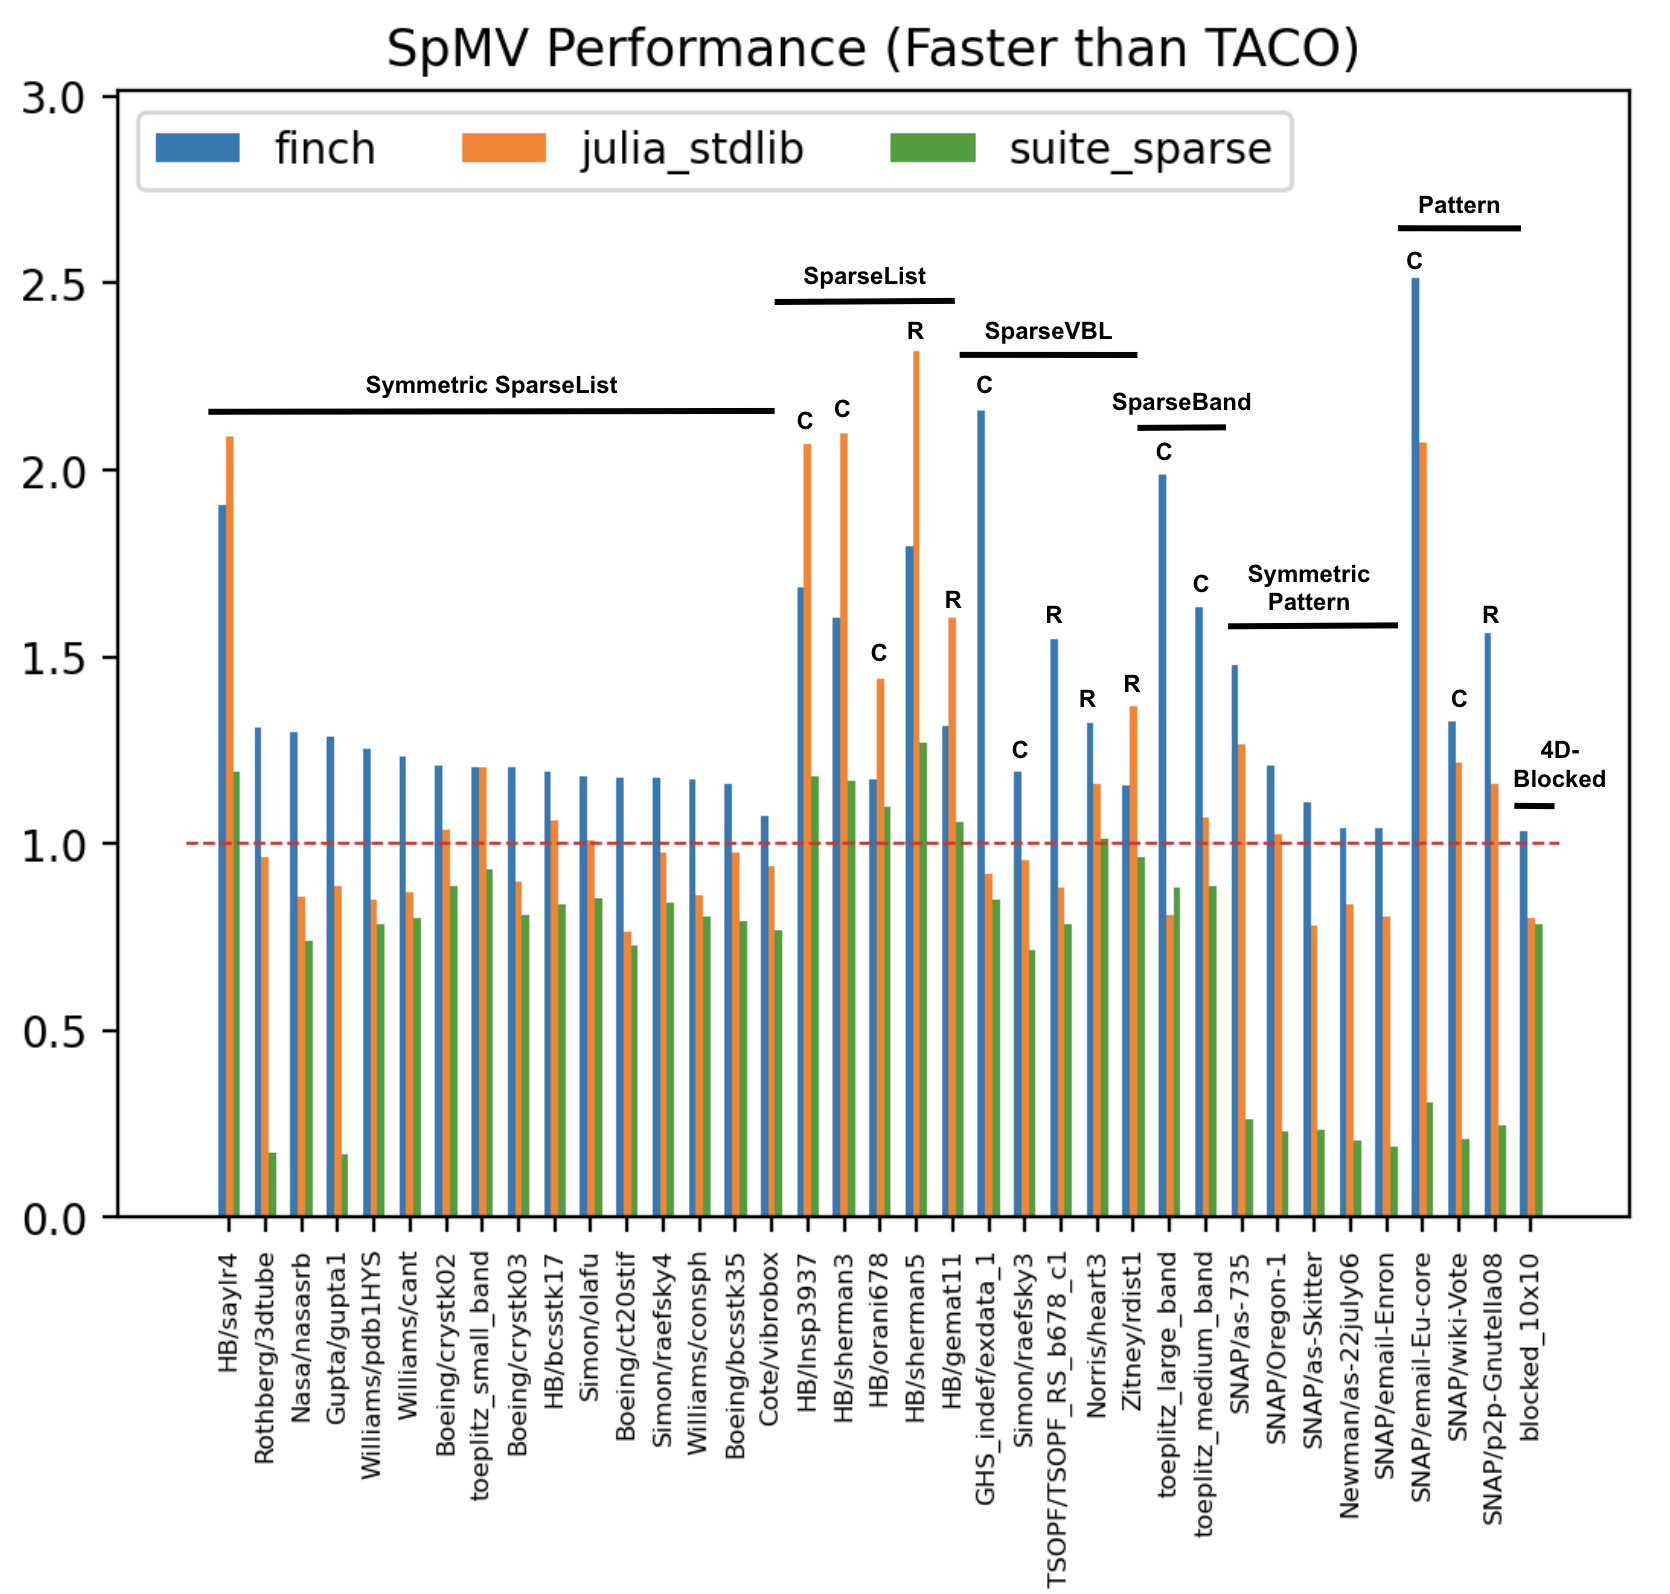
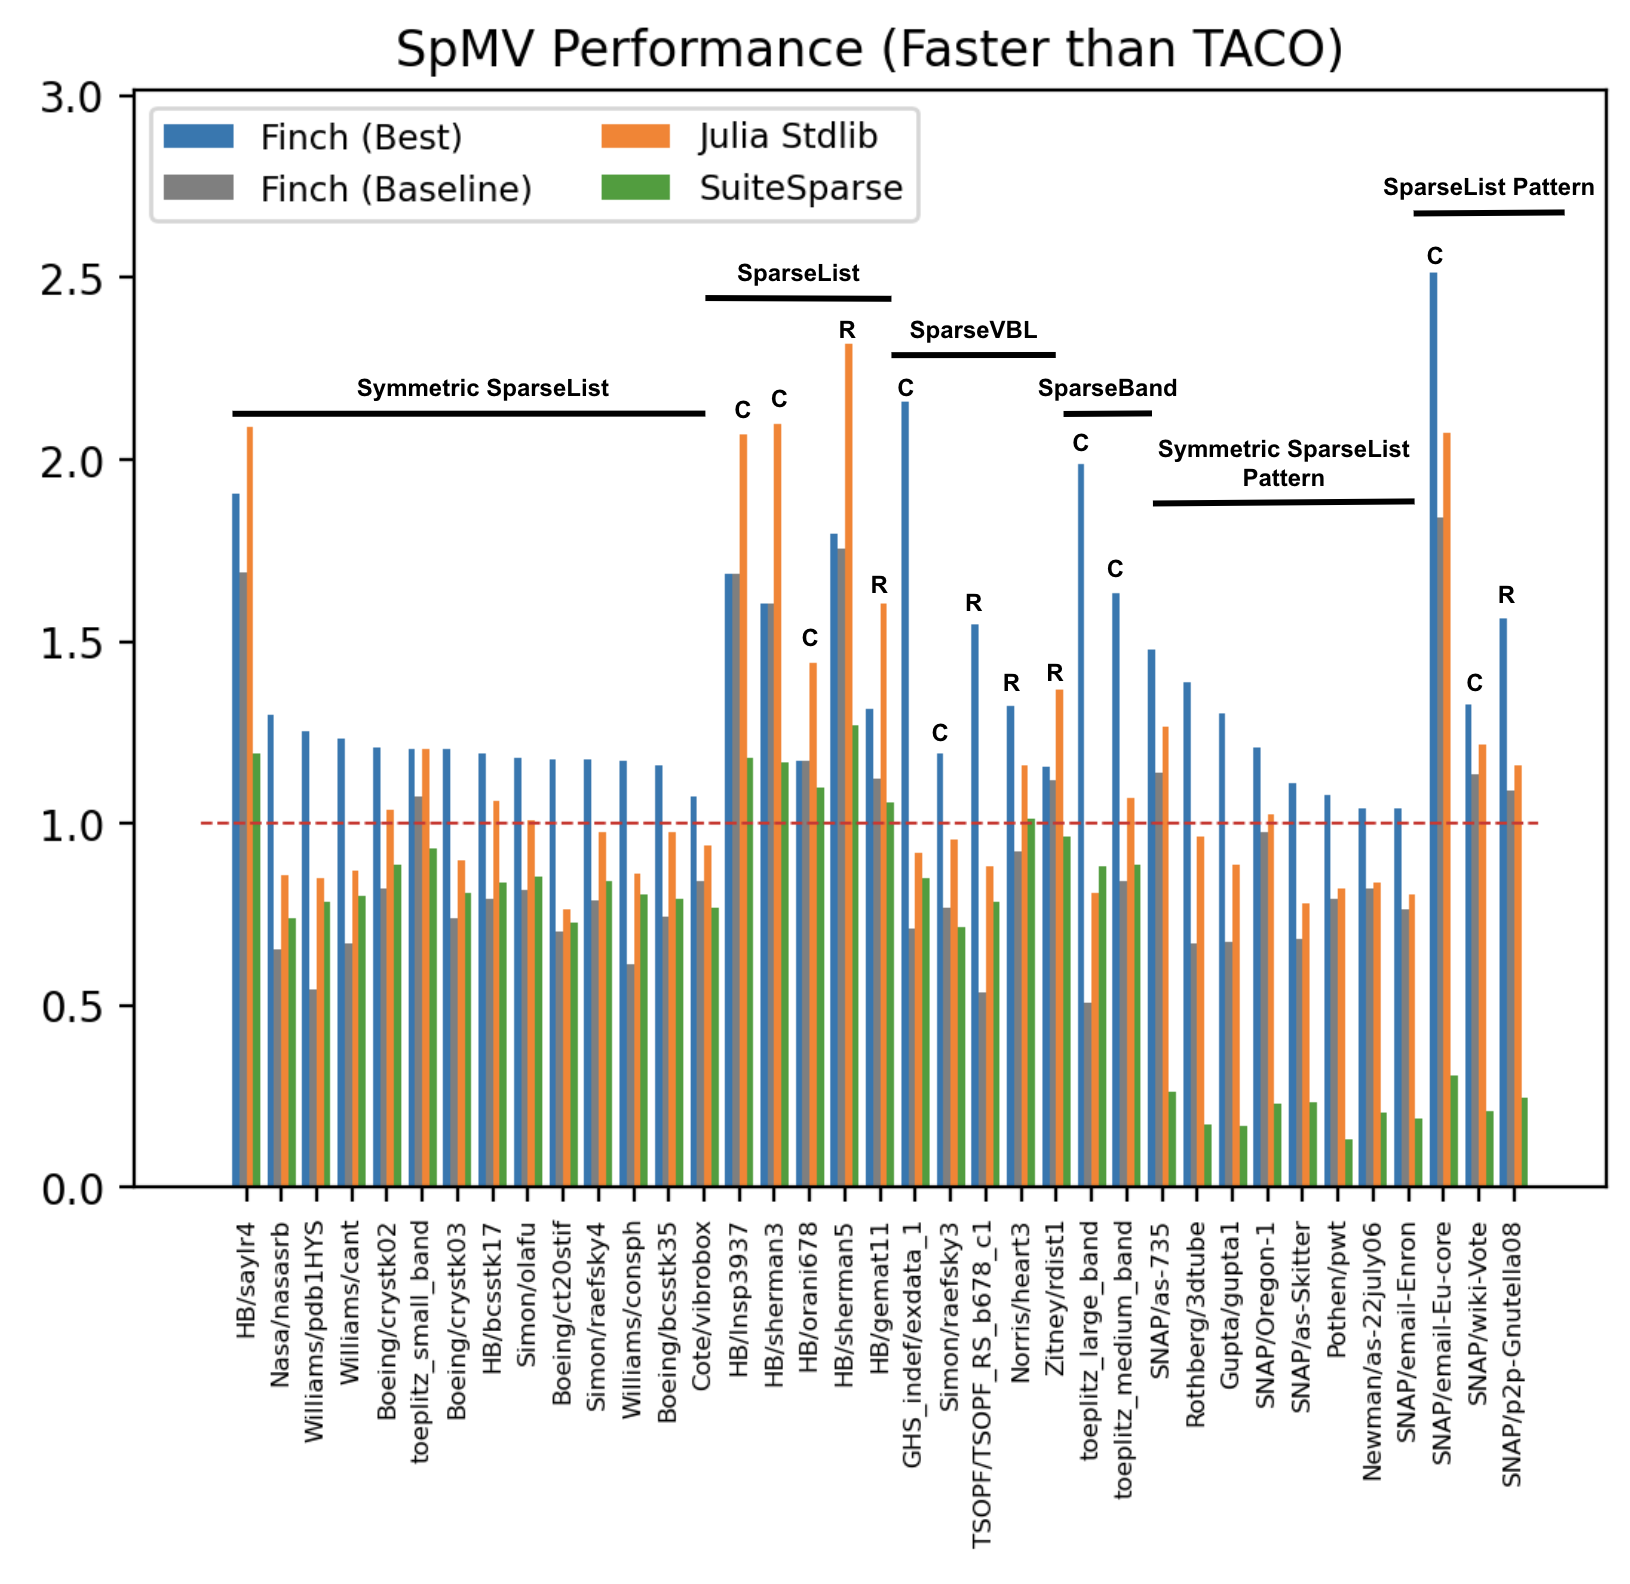
Update on Overleaf.

diff --git a/sections/eval.tex b/sections/eval.tex
@@ -40,7 +40,7 @@ Examples that demonstrate performance engineering in a datastructure-driven mode
 \subsubsection{SpMV}
 The sparse matrix-vector multiplication kernel (SpMV) is a common operation in sparse linear algebra with many applications including conjugate gradients, graph algorithms, numerical analysis, and neural networks [cite]. SpMV is a bandwidth bound kernel, and thus historically has been subject to many modifications to improve throughput and reduce the associated control flow [cite]. The wide range of applications unsurprisingly results in a wide range of types of datasets making it an effective kernel to demonstrate the utility of having flexible data formats. 
 
-In this case study, we highlight a few different Finch formats, as specified in Table \ref{spmv_tensor_formats}, and the performance effects of conforming a dataset’s structure with its storage format, which Finch's datastructure-driven model enables us to do. Finch also provides the control flow necessary to manipulate data reads and writes, enabling exploitation of multiple structural patterns concurrently (e.g. sparsity \textit{and} symmetry). 
+In this case study, we highlight a few different Finch formats as specified in Table \ref{spmv_tensor_formats}, and the performance effects of conforming a dataset’s structure with its storage format, which Finch's datastructure-driven model enables us to do. Finch also provides the control flow necessary to manipulate data reads and writes, enabling exploitation of multiple structural patterns concurrently (e.g. sparsity \textit{and} symmetry). 
 
 
 We display speedup relative to TACO, SuiteSparseGraphBLAS, and Julia’s standard library, as depicted in Figures \ref{spmv_sorted} and \ref{spmv_grouped}.  We test using sparse matrices from a large selection of datasets spanning several previous papers: the datasets used by Vuduc et al. to test the OSKI interface [cite], Ahrens et al. to test a variable block row format partitioning strategy [cite], and Kjolstad et al. to test the TACO library [cite]. Additionally, we included the SNAP graph collection to test with boolean matrices. We also created several synthetic matrices containing bands or blocks of varying sizes as well as a permutation matrix to encapsulate a few additional use cases. The dense vector is randomly generated. We tested using the row-major and column-major Finch programs in Figure \ref{spmv_programs} as well as the symmetric program where applicable; the performance displayed for Finch on each dataset in Figure \ref{spmv_grouped} is the fastest among the formats and programs we tested. Column-major SpMV consistently performs better than row-major SpMV (an average of 1.36x better) in TACO so we use column-major SpMV in TACO as our baseline.
@@ -124,25 +124,31 @@ We display speedup relative to TACO, SuiteSparseGraphBLAS, and Julia’s standar
 
 
 \subsubsection{Tensor Formats}
-We found that the SpMV performance was superior for the level format that best paralleled the structure of the tensor. Namely, matrices with a clear blocked structure like exdata\_1, TSOPF\_RS\_b678\_c1, and heart3 performed notably well with the SparseVBL format in comparison to both TACO and the Finch SparseList formats (which we consider the closest analog to the sparse matrix format used in TACO and other libraries) with speedups of 2.16, 1.55, and 1.30 relative to TACO and of 1.47, 2.13, and 1.42 relative to the fastest SparseList Finch SpMV implementation. Furthermore, the synthetic Toeplitz banded matrices we constructed performed the best with the SparseBand matrix, in particular with the toeplitz\_large\_band and the toeplitz\_medium\_band matrices having a speedup of 1.98 and 1.64 relative to TACO and a speedup of 1.47 and 1.24 relative to the fastest SparseList Finch SpMV implementation. 
+We found that the SpMV performance was superior for the level format that best paralleled the structure of the tensor. We consider the Dense(SparseList(Element)) format with the column-major SpMV program to be the Finch baseline as it is the closet analog to the sparse matrix format and SpMV program in other libraries.  
 
-There were also significant advantages of using the Pattern format instead of the Element format to represent scalar values in the matrices when these values were boolean, such as matrices in the SNAP collection which represent graph datasets are boolean. For example, Finch Pattern SpMV had a speedup of 2.51 over TACO for SNAP/email-Eu-core and a speedup of X over the same Finch program, but with an Element format.   
+Namely, matrices with a clear blocked structure like exdata\_1, TSOPF\_RS\_b678\_c1, and heart3 performed notably well with the SparseVBL format with speedups of 2.16, 1.55, and 1.30 relative to TACO, while the baseline format had slowdowns of 0.71, 0.53, and 0.92 relative to TACO. Furthermore, the synthetic Toeplitz banded matrices we constructed performed the best with the SparseBand matrix, in particular with the toeplitz\_large\_band and the toeplitz\_medium\_band matrices having a speedup of 1.98 and 1.64 relative to TACO, while the baseline format had slowdowns of 0.84 and 0.51 relative to TACO.
+
+There were also significant advantages of using the Pattern format instead of the Element format to represent scalar values in the matrices when these values were boolean, such as matrices in the SNAP collection which represent graph datasets are boolean. For example, the SparseList-Pattern for email-Eu-core resulted in a speedup of 2.51, while the SparseList-Element format resulted in a slowdown of 1.84 over TACO.
 
 \begin{table}[htbp]
     \centering
-    \caption{SpMV Tensor Formats}
-    \label{spmv_tensor_formats}
+    \caption{SpMV Sample Matrices}
+    \label{spmv_sample_matrices}
     \begin{tabular}{|m{3cm}|c|c|c|}
         \hline
         \textbf{Spy} & \textbf{Group / Name} & \textbf{Dimensions} & \textbf{Best Finch Format}\\
         \hline
-        \includegraphics[width=3cm]{spmv_matrices/saylr4.png} & HB/saylr4 & 3,564 x 3,564 (22316) & Symmetric SparseList \\
+        \includegraphics[width=3cm]{spmv_matrices/saylr4.png} & HB/saylr4 & 3,564 x 3,564 (22,316) & Symmetric SparseList \\
         \hline 
+        \includegraphics[width=3cm]{spmv_matrices/heart3.png} & Norris/heart3 & 2,339 x 2,339 (680,341) & SparseVBL \\
+        \hline 
+        \includegraphics[width=3cm]{spmv_matrices/as-735.png} & SNAP/as-735 & 7,716 x 7,716 (26,467) & Symmetric SparseList-Pattern \\
+        \hline
     \end{tabular}
 \end{table}
 
 \subsubsection{Symmetric SpMV}
-Finch enables us to exploit symmetry in the sparse matrix of the SpMV kernel by providing the capabilities to reuse memory reads and insert control flow logic to restrict iterations to either the lower or upper triangle of the sparse matrix. We can apply this strategy with any level format. Every symmetric matrix in the SparseList and SparseList-Pattern formats has better performance when we use a Finch SpMV program that takes advantage of this symmetry. However, the regular Finch SpMV program has better performance for symmetric matrices than the symmetric Finch SpMV program for the other more specialized formats, likely because we need in-order accesses to fully capitalize on the specialized storage. Symmetric SpMV with the SparseList level format in Finch results in an average of 1.30x speedup over TACO and symmetric SpMV with the SparseList-Pattern format in Finch results in an average speedup of 1.15x over TACO. Notably, there is a 1.90x speedup for the HB/saylr4 matrix over TACO. 
+Finch enables us to exploit symmetry in the sparse matrix of the SpMV kernel by providing the capabilities to reuse memory reads and insert control flow logic to restrict iterations to either the lower or upper triangle of the sparse matrix. We can apply this strategy with any level format. Every symmetric matrix in the SparseList and SparseList-Pattern formats has better performance when we use a Finch SpMV program that takes advantage of this symmetry. However, the regular row- or column-major Finch SpMV programs have better performance for symmetric matrices than the symmetric Finch SpMV program for the other more specialized formats, likely because we need in-order accesses to fully capitalize on the specialized storage. Symmetric SpMV with the SparseList level format in Finch results in an average of 1.27x speedup over TACO and symmetric SpMV with the SparseList-Pattern format in Finch results in an average speedup of 1.21x over TACO. Notably, there is a 1.91x speedup for the HB/saylr4 matrix over TACO. 
 
 % Perhaps add the following section again in a future iteration of paper
 % \subsubsection{4D Blocked SpMV}
@@ -187,7 +193,7 @@ Finch enables us to exploit symmetry in the sparse matrix of the SpMV kernel by 
     \includegraphics[width=\linewidth]{spmv_performance_grouped.png}
     \caption{Performance of SpMV by Finch format.}
     \label{spmv_grouped}
-    \footnotesize The performance displayed for Finch on each dataset is the fastest among the formats we tested. "R" indicates row-major implementation and "C" indicates column-major implementation in Finch.
+    \footnotesize The performance displayed for Finch on each dataset is the fastest among the formats we tested. "R" indicates row-major implementation and "C" indicates column-major implementation in Finch. The baseline Finch format is unsymmetric Dense(SparseList(Element)).
 \end{figure}
 
 \subsection{Programming over flexible data}
